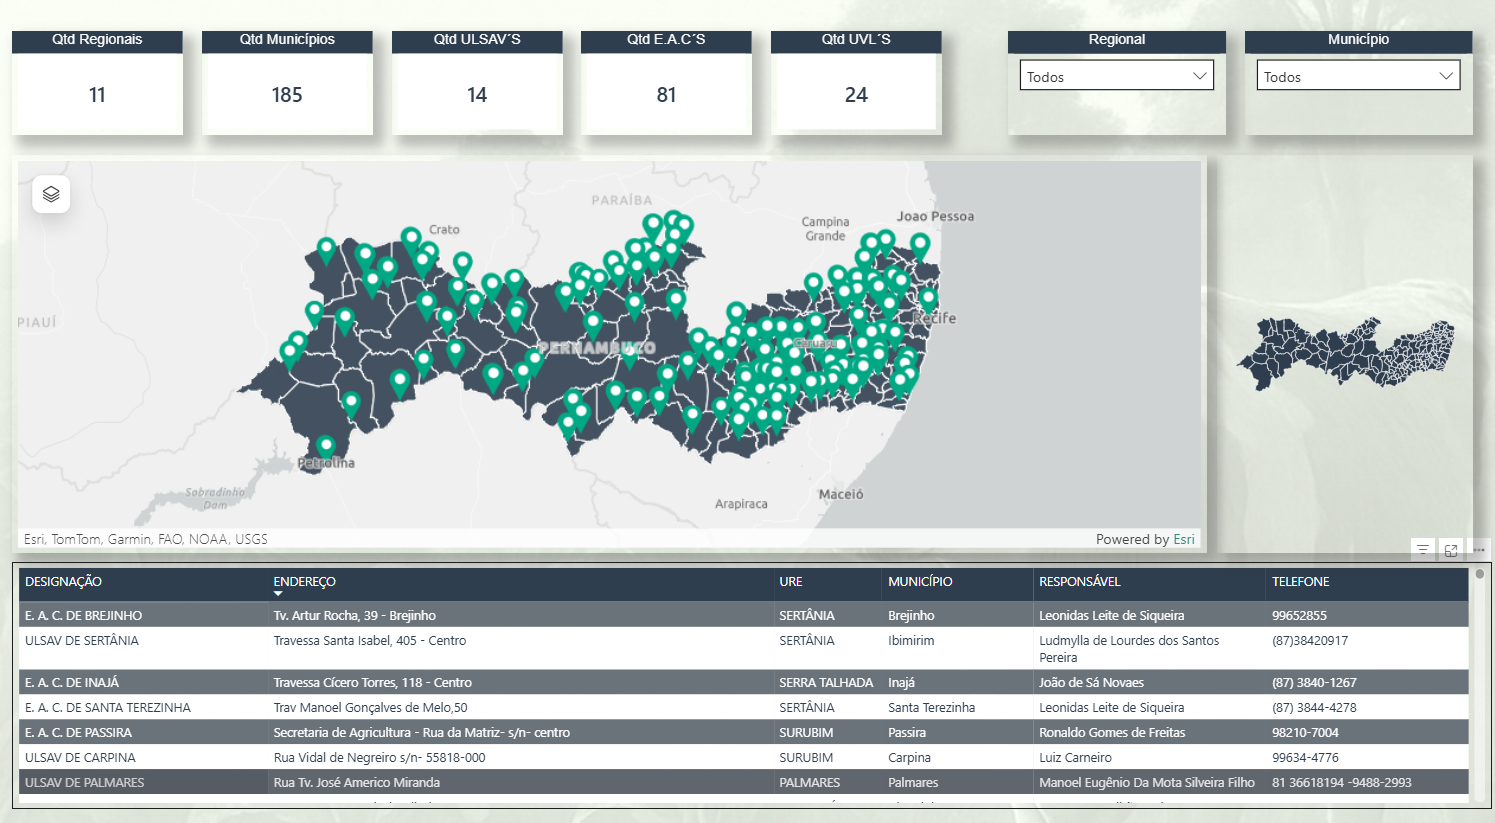
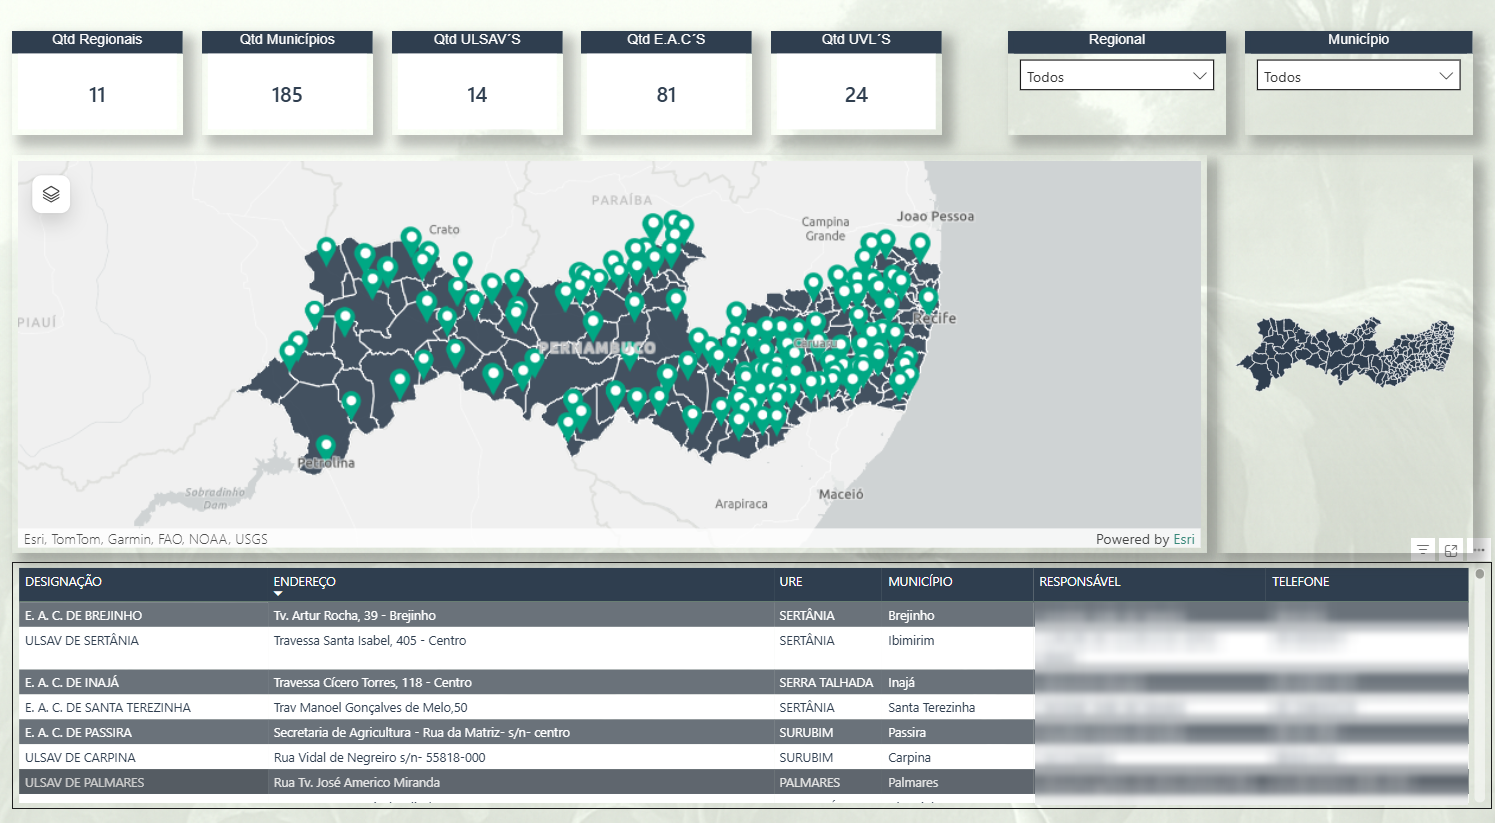
docs: desfoca nomes de servidores e telefones nos prints (privacidade)
Claude-Session: https://claude.ai/code/session_017xV3aPLxnjh1zZnKt8tBjx

Changed region(s): [[0.6769, 0.729, 0.9846, 0.9721]]

diff --git a/README.md b/README.md
@@ -118,7 +118,7 @@ CALCULATE (
 
 ## 🔒 Sobre os dados
 
-Endereços e telefones são das unidades públicas da ADAGRO, informação de atendimento ao cidadão. O arquivo `.pbix` está na [release v1.0](https://github.com/valdanosimao/monitoramento-escritorios-bi/releases/tag/v1.0).
+Os endereços são das unidades públicas da ADAGRO. Nos prints, os nomes dos responsáveis e os telefones foram desfocados para preservar a privacidade dos servidores. O arquivo `.pbix` está na [release v1.0](https://github.com/valdanosimao/monitoramento-escritorios-bi/releases/tag/v1.0).
 
 ---
 
